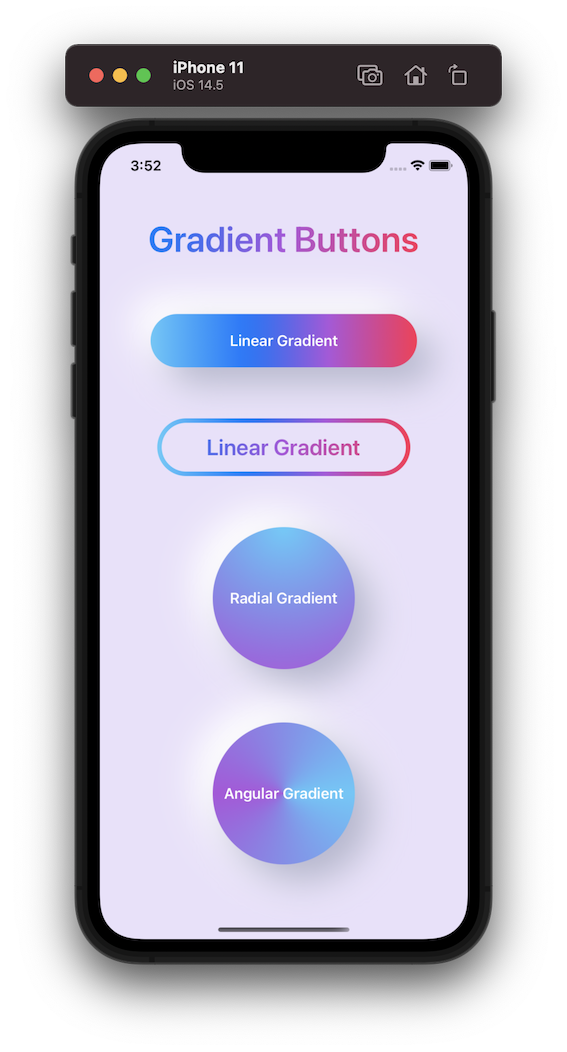
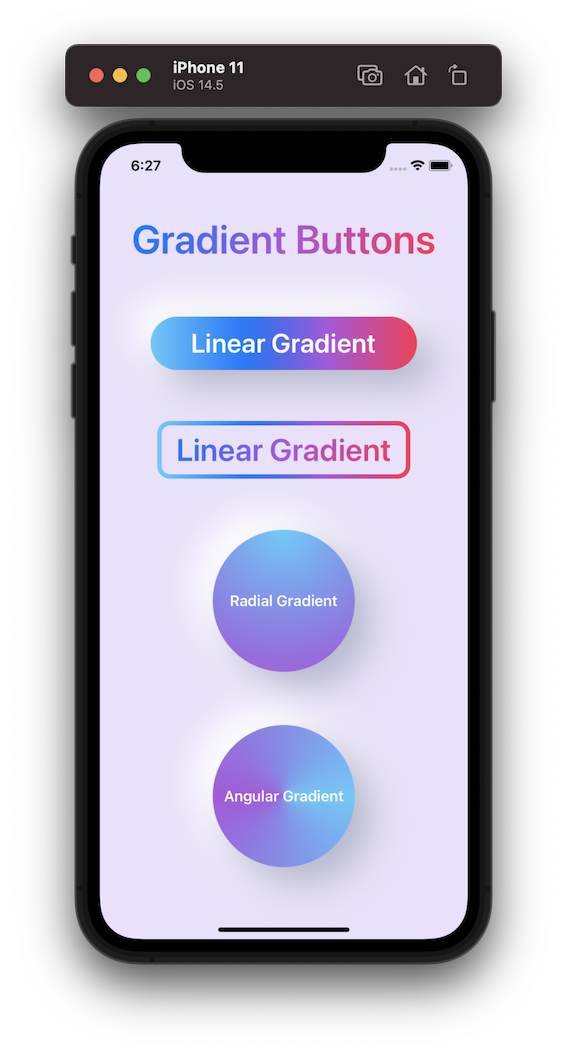
update to ui

diff --git a/GradientButtons/ContentView.swift b/GradientButtons/ContentView.swift
@@ -20,7 +20,7 @@ struct ContentView: View {
         VStack(spacing: 60){
             
             Text("Gradient Buttons")
-                .font(.system(size: 40))
+                .font(.system(size: 45))
                 .bold()
                 .gradientForeground(colors: [.blue, .purple, .pink])
             
@@ -29,6 +29,7 @@ struct ContentView: View {
                 //                print("Linear Gradient Button Tapped")
             } label: {
                 Text("Linear Gradient")
+                    .font(.system(size: 30))
                     .bold()
                     .frame(width: 300, height: 60)
                     .foregroundColor(.white)
@@ -43,10 +44,10 @@ struct ContentView: View {
             } label: {
                 Text("Linear Gradient")
                     .bold()
-                    .font(.system(size: 25))
+                    .font(.system(size: 35))
                     .frame(width: 280, height: 60)
                     .gradientForeground(colors: [.blue, .purple,.pink])
-                    .overlay(Capsule().stroke(LinearGradient(gradient: brandGradient, startPoint: .leading, endPoint: .trailing) , lineWidth: 5.0)
+                    .overlay(RoundedRectangle(cornerRadius: 12).stroke(LinearGradient(gradient: brandGradient, startPoint: .leading, endPoint: .trailing) , lineWidth: 5.0)
                     )
                 
             }
